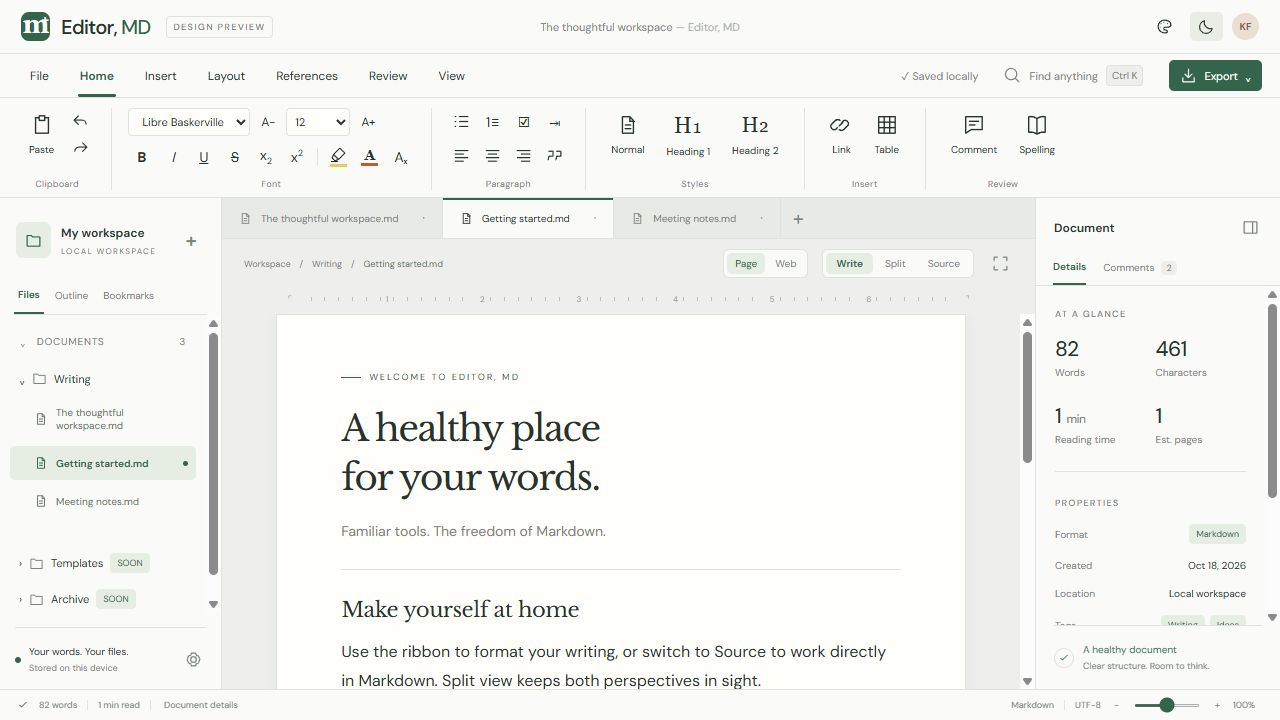
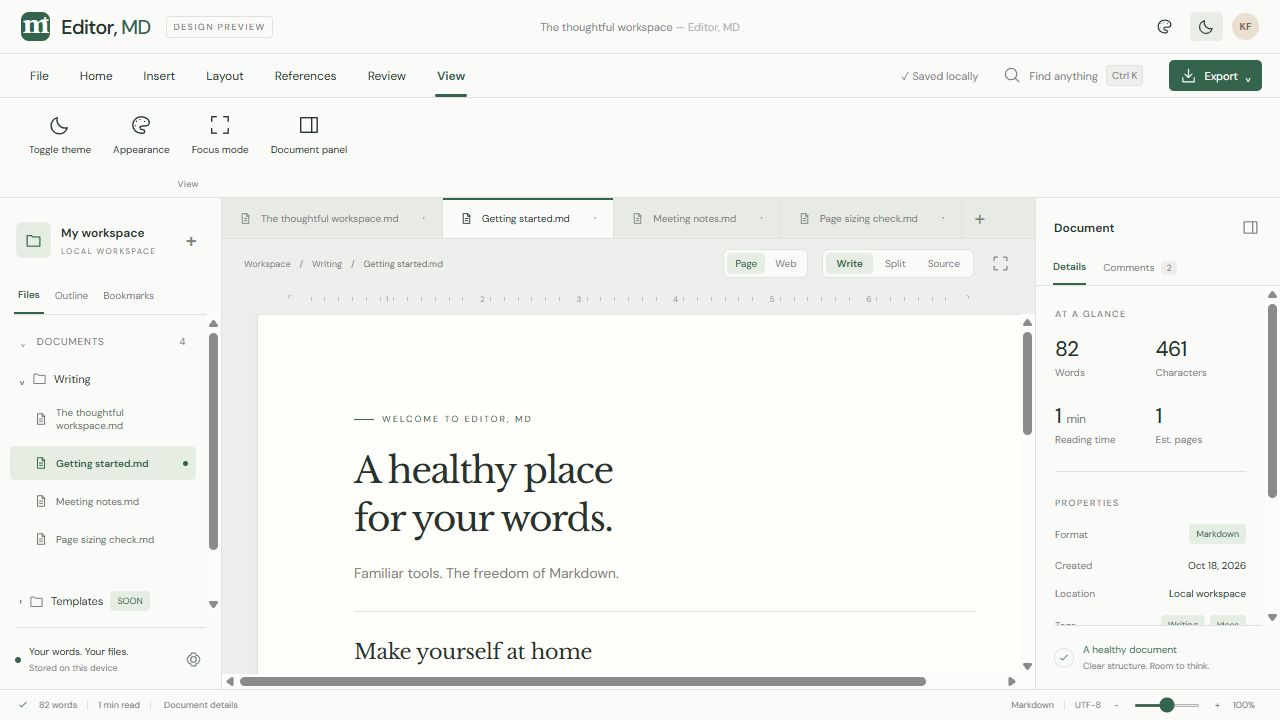
Keep page previews fixed and simplify View controls

diff --git a/app.js b/app.js
@@ -88,7 +88,7 @@ const tool=(label,action,content)=>`<button class="tool" aria-label="${label}" t
 const large=(name,label,action)=>`<button class="large-tool" data-action="${action}">${icon(name)}${label}</button>`;
 const group=(label,html,extra='')=>`<div class="ribbon-group ${extra}">${html}<div class="ribbon-label">${label}</div></div>`;
 function ribbon(tab){let html='';if(tab==='Home'){html=group('Clipboard',`<div class="ribbon-row">${large('paste','Paste','paste')}<div>${tool('Undo','undo',icon('undo'))}<br>${tool('Redo','redo',icon('redo'))}</div></div>`)+group('Font',`<div class="ribbon-row font-row"><select aria-label="Font family" id="font"><option>Libre Baskerville</option><option>Georgia</option><option>Segoe UI</option><option>Consolas</option></select>${tool('Decrease font size','font-smaller','A−')}<select class="font-size" aria-label="Text size in points" id="size">${[6,8,9,10,11,12,14,16,18,20,22,24,26,28,32,36,48,60,72,96].map(n=>`<option value="${n}" ${n===12?'selected':''}>${n}</option>`).join('')}</select>${tool('Increase font size','font-larger','A+')}</div><div class="ribbon-row">${tool('Bold','bold','<b>B</b>')}${tool('Italic','italic','<i>I</i>')}${tool('Underline','underline','<u>U</u>')}${tool('Strikethrough','strikeThrough','<s>S</s>')}${tool('Subscript','subscript','x<sub>2</sub>')}${tool('Superscript','superscript','x<sup>2</sup>')}<span class="separator"></span>${tool('Highlight','hiliteColor','<span class="highlight-icon">'+icon('highlighter')+'</span>')}${tool('Font color','font-color','<span class="font-color-icon">A</span>')}${tool('Clear formatting','removeFormat','Aₓ')}</div>`)+group('Paragraph',`<div class="ribbon-row">${tool('Bullet list','insertUnorderedList',icon('list'))}${tool('Numbered list','insertOrderedList','1≡')}${tool('Checklist','checklist','☑')}${tool('Indent','indent','⇥')}</div><div class="ribbon-row">${tool('Align left','justifyLeft',icon('align'))}${tool('Align center','justifyCenter',icon('center'))}${tool('Align right','justifyRight',icon('alignRight'))}${tool('Quote','quote',icon('quote'))}</div>`)+group('Styles',`<div class="ribbon-row">${large('file','Normal','normal')}<button class="large-tool" data-action="heading1"><span style="font-family:Georgia;font-size:22px">H₁</span>Heading 1</button><button class="large-tool" data-action="heading2"><span style="font-family:Georgia;font-size:21px">H₂</span>Heading 2</button></div>`)+group('Insert',`<div class="ribbon-row">${large('link','Link','link')}${large('table','Table','table')}</div>`,'optional')+group('Review',`<div class="ribbon-row">${large('comment','Comment','comment')}${large('book','Spelling','spelling')}</div>`,'optional')}
-else{const tabs={File:[['file','New document','new'],['download','Save now','save-now'],['download','Export','export'],['print','Print / PDF','print'],['clock','Local storage','storage']],Insert:[['table','Table','table'],['chart','Graph studio','graphs'],['link','Link','link'],['image','Image','image'],['code','Code block','code'],['quote','Blockquote','quote'],['comment','Comment','comment'],['file','Divider','divider']],Layout:[['layout','Page setup','page'],['align','Align left','justifyLeft'],['center','Center','justifyCenter'],['alignRight','Align right','justifyRight'],['expand','Focus mode','focus']],References:[['list','Document outline','outline'],['link','Insert link','link'],['bookmark','Bookmarks','bookmarks'],['quote','Footnote','footnote']],Review:[['comment','Comments','comment'],['book','Spelling','spelling'],['check','Word count','stats']],View:[['file','Page layout','layout-page'],['layout','Web layout','layout-web'],['file','Write','write'],['layout','Split view','split'],['code','Markdown','source'],['moon','Toggle theme','theme'],['palette','Appearance','appearance'],['expand','Focus mode','focus'],['panel','Document panel','panel']]};html=group(tab,`<div class="ribbon-row">${(tabs[tab]||tabs.Home).map(v=>large(...v)).join('')}</div>`)}$('#ribbon').innerHTML=html;$$('[data-action]').forEach(b=>b.onmousedown=e=>e.preventDefault());$$('[data-action]').forEach(b=>b.onclick=()=>action(b.dataset.action));if($('#font'))$('#font').onchange=e=>format('fontName',e.target.value);if($('#size')){ $('#size').onchange=e=>{if(e.target.value)setFontSize(+e.target.value)};if(typeof syncFontControls==='function')syncFontControls(); }if(tab==='File'&&typeof mountAutosaveControl==='function')mountAutosaveControl();if(typeof syncLayoutControls==='function')syncLayoutControls();}
+else{const tabs={File:[['file','New document','new'],['download','Save now','save-now'],['download','Export','export'],['print','Print / PDF','print'],['clock','Local storage','storage']],Insert:[['table','Table','table'],['chart','Graph studio','graphs'],['link','Link','link'],['image','Image','image'],['code','Code block','code'],['quote','Blockquote','quote'],['comment','Comment','comment'],['file','Divider','divider']],Layout:[['layout','Page setup','page'],['align','Align left','justifyLeft'],['center','Center','justifyCenter'],['alignRight','Align right','justifyRight'],['expand','Focus mode','focus']],References:[['list','Document outline','outline'],['link','Insert link','link'],['bookmark','Bookmarks','bookmarks'],['quote','Footnote','footnote']],Review:[['comment','Comments','comment'],['book','Spelling','spelling'],['check','Word count','stats']],View:[['moon','Toggle theme','theme'],['palette','Appearance','appearance'],['expand','Focus mode','focus'],['panel','Document panel','panel']]};html=group(tab,`<div class="ribbon-row">${(tabs[tab]||tabs.Home).map(v=>large(...v)).join('')}</div>`)}$('#ribbon').innerHTML=html;$$('[data-action]').forEach(b=>b.onmousedown=e=>e.preventDefault());$$('[data-action]').forEach(b=>b.onclick=()=>action(b.dataset.action));if($('#font'))$('#font').onchange=e=>format('fontName',e.target.value);if($('#size')){ $('#size').onchange=e=>{if(e.target.value)setFontSize(+e.target.value)};if(typeof syncFontControls==='function')syncFontControls(); }if(tab==='File'&&typeof mountAutosaveControl==='function')mountAutosaveControl();if(typeof syncLayoutControls==='function')syncLayoutControls();}
 let selection=null;document.addEventListener('selectionchange',()=>{const s=window.getSelection();if(s.rangeCount&&$('#paper').contains(s.anchorNode))selection=s.getRangeAt(0).cloneRange()});
 function format(command,value){if(mode==='source'){toast('Switch to Write or Split to format text');return}const target=selection?.cloneRange();$('#paper').focus();if(target&&$('#paper').contains(target.commonAncestorContainer)){let s=window.getSelection();s.removeAllRanges();s.addRange(target)}document.execCommand(command,false,value);save();$('#source').value=markdown($('#paper').innerHTML)}
 function insert(html){format('insertHTML',html)}

diff --git a/office.js b/office.js
@@ -138,17 +138,20 @@ function fontColorDialog(){
   $('#cancel-color').onclick=()=>$('#dialog').close();
 }
 
-const defaultPage={size:'Letter',orientation:'portrait',top:.67,bottom:.67,left:.79,right:.79};
+const defaultPage={size:'Letter',orientation:'portrait',top:1,bottom:1,left:1,right:1};
 const pageSizes={Letter:[8.5,11],A4:[8.2677,11.6929],Legal:[8.5,14]};
 function applyPage(){
   const page={...defaultPage,...files[active].page};
   let [width,height]=pageSizes[page.size]||pageSizes.Letter;
   if(page.orientation==='landscape')[width,height]=[height,width];
-  const scale=690/width;
+  // CSS uses 96 pixels per inch, so paper, type and margins share one scale.
+  const scale=96;
   const paper=$('#paper');
+  paper.style.setProperty('--page-width',width*scale+'px');
   paper.style.setProperty('--page-top',page.top*scale+'px');paper.style.setProperty('--page-bottom',page.bottom*scale+'px');
   paper.style.setProperty('--page-left',page.left*scale+'px');paper.style.setProperty('--page-right',page.right*scale+'px');
   paper.style.setProperty('--page-height',height*scale+'px');
+  $('.page-caption').textContent=page.size+' · '+Number(width.toFixed(2))+' × '+Number(height.toFixed(2))+' in';
   let printStyle=$('#print-page-style');
   if(!printStyle){printStyle=document.createElement('style');printStyle.id='print-page-style';document.head.append(printStyle)}
   printStyle.textContent=`@page {size:${width}in ${height}in;margin:${page.top}in ${page.right}in ${page.bottom}in ${page.left}in;}`;
@@ -161,6 +164,7 @@ function pageDialog(){
     <div class="field-grid">${['top','bottom','left','right'].map(k=>`<label>${k[0].toUpperCase()+k.slice(1)} (in)<input type="number" id="margin-${k}" min="0" max="3" step="0.05" value="${p[k]}"></label>`).join('')}</div>
     </div><div class="page-layout-preview"><div class="mini-page"><div></div></div><span id="page-dimensions"></span></div></div><p id="page-error" class="validation-error" role="alert"></p><div class="dialog-actions"><button id="cancel-page">Cancel</button><button class="primary" id="apply-page">Apply layout</button></div>`);
   $('#paper-size').value=p.size;$('#page-orientation').value=p.orientation;
+  if(['top','bottom','left','right'].every(k=>p[k]===p.top)&&[0.5,1,1.25].includes(p.top))$('#margin-preset').value=String(p.top);
   function values(){return {size:$('#paper-size').value,orientation:$('#page-orientation').value,...Object.fromEntries(['top','bottom','left','right'].map(k=>[k,Number($('#margin-'+k).value)]))}}
   function preview(){let v=values(),[w,h]=pageSizes[v.size];if(v.orientation==='landscape')[w,h]=[h,w];let m=$('.mini-page');m.style.aspectRatio=w+'/'+h;m.style.padding=`${v.top/h*100}% ${v.right/w*100}% ${v.bottom/h*100}% ${v.left/w*100}%`;$('#page-dimensions').textContent=w.toFixed(2)+' × '+h.toFixed(2)+' in';}
   $$('#dialog input,#dialog select:not(#margin-preset)').forEach(e=>e.oninput=()=>{$('#margin-preset').value='custom';preview()});
@@ -182,14 +186,11 @@ function syncLayoutControls(){
     const selected=button.dataset.documentLayout===documentLayout;
     button.classList.toggle('selected',selected);button.setAttribute('aria-pressed',String(selected));
   });
-  $$('[data-action="layout-page"],[data-action="layout-web"]').forEach(button=>{
-    const selected=button.dataset.action==='layout-'+documentLayout;
-    button.classList.toggle('selected',selected);button.setAttribute('aria-pressed',String(selected));
-  });
 }
 function setDocumentLayout(layout){
   documentLayout=layout==='web'?'web':'page';
   $('.document-area').classList.toggle('web-layout',documentLayout==='web');
+  applyPage();
   try{localStorage.setItem('editor-md-document-layout',documentLayout)}catch{}
   syncLayoutControls();
 }
@@ -198,8 +199,6 @@ $$('[data-document-layout]').forEach(button=>{
   button.onclick=()=>setDocumentLayout(button.dataset.documentLayout);
 });
 Object.assign(officeActions,{
-  'layout-page':()=>setDocumentLayout('page'),
-  'layout-web':()=>setDocumentLayout('web'),
   appearance:appearanceDialog,
   'font-smaller':()=>setFontSize(currentFontSize-1),
   'font-larger':()=>setFontSize(currentFontSize+1),

diff --git a/editing.css b/editing.css
@@ -2,9 +2,12 @@
 /* Screen layout never changes document margins or print geometry. */
 .canvas-top{flex-wrap:wrap;row-gap:7px}.breadcrumbs{min-width:0;overflow:hidden;white-space:nowrap}.breadcrumbs strong{overflow:hidden;text-overflow:ellipsis}
 .layout-switch{display:flex;flex-shrink:0;gap:2px;padding:3px;background:var(--surface);border:1px solid var(--line);border-radius:6px}
-.layout-switch button{font-size:10px;padding:4px 8px;color:var(--muted)}.layout-switch button.selected,.large-tool[data-action^="layout-"].selected{background:var(--pale);color:var(--green)}
+.layout-switch button{font-size:10px;padding:4px 8px;color:var(--muted)}.layout-switch button.selected{background:var(--pale);color:var(--green)}
 .mode-switch{flex-shrink:0}
 @media screen{
+  .document-area:not(.web-layout) .editing-surface:not(.source){width:max-content;min-width:100%;max-width:none;align-items:flex-start}
+  .document-area:not(.web-layout) .paper{flex:none;width:var(--page-width,816px);max-width:none;height:var(--page-height,1056px);min-height:0;padding:var(--page-top,96px) var(--page-right,96px) var(--page-bottom,96px) var(--page-left,96px);overflow:auto;overscroll-behavior:contain}
+  .document-area:not(.web-layout) .split #source{flex:none;width:420px}
   .web-layout .ruler,.web-layout .page-caption{display:none}
   .web-layout .canvas-scroll{background:var(--paper);padding:30px clamp(18px,4vw,60px) 40px}
   .web-layout .editing-surface{max-width:none;width:100%;min-height:100%;margin:0;align-items:stretch}

diff --git a/README.md b/README.md
@@ -15,7 +15,7 @@ Mermaid is installed locally so diagram rendering works offline after installati
 ## Try it
 
 - Edit the document directly, or switch between Write, Split, and Source views.
-- Switch Page / Web above the document or from View. Page shows the paper canvas and document margins; Web reflows across the available editing width. This preference works independently of Write/Split/Source, is remembered locally, and leaves print settings unchanged.
+- Switch Page / Web above the document. Page uses fixed paper dimensions; Web reflows across the available editing width. Both layout and Write/Split/Source controls live above the document, independently of the View ribbon. Layout is remembered locally and leaves print settings unchanged.
 - Explore the Home, Insert, Layout, References, Review, and View ribbons.
 - Apply headings, emphasis, lists, quotes, tables, links, and code blocks.
 - Navigate files, create a document, or search document names and content with Ctrl+K.
@@ -24,7 +24,7 @@ Mermaid is installed locally so diagram rendering works offline after installati
 - Customize main and accent colors independently for light and dark mode with the palette button. Light retains the original warm paper/green palette; dark defaults to navy blue/orange.
 - Keep the font-size dropdown alongside A− / A+. It follows the selected text, shows Mixed for differing sizes, and reflects inherited point sizes for subscript/superscript. Font family and character formatting states follow the selection too.
 - Apply subscript, superscript, font color, or highlighting with distinct character tools (the highlighter uses a marker icon).
-- Choose paper size/orientation and individual margins from Layout → Page setup.
+- Choose paper size/orientation and individual margins from Layout → Page setup. Defaults are Letter (8.5 × 11 inches), portrait, with 1-inch margins. Returning from Web preserves the document's chosen page setup.
 - Create or edit charts in Insert → Graph studio. The spreadsheet-style data grid supports multiple series, row/series insertion/removal, labels, axis titles, and selecting a series for pie charts. Switching chart types preserves the data.
 - Build flowcharts with clickable preview nodes, editable labels/shapes, labeled connections, direction controls, and a Decision + Yes / No branches action. The studio includes undo/redo and templates for sequence, Gantt, mind-map, state, class, and entity-relationship diagrams, with source editing for those additional types.
 - Use Graph studio → Import data to paste CSV, TSV or a Markdown table. Chart-from-selection and its custom context menu have been removed; the visual chart/flowchart editors and manual import remain available.
@@ -36,6 +36,8 @@ Mermaid is installed locally so diagram rendering works offline after installati
 This is a **design prototype**, not the Rust application. Its lightweight Markdown conversion supports common structures but does not implement the full CommonMark/GFM specification. Font color and point size export using inline HTML, which some Markdown readers strip (including GitHub styling). Mermaid exports as fenced code blocks; readers need Mermaid support. In-app graph zoom and node selection are editor features, not a promise of portable Markdown interactivity. Arbitrary diagram scripts and callbacks are disabled.
 
 Export offers Markdown, styled HTML with static graph artwork, and PDF through the browser's print interface. Print styling hides application controls and applies document margins independently of screen theme. PDF graphs are static. Some office formatting remains preview-only or HTML/PDF-only. Comments are session-only; templates and archives remain planned features.
+
+The on-screen Page view is a fixed paper preview with scrollable content for long documents. It uses 96 CSS pixels per inch before zoom and retains the selected paper dimensions in Split mode and narrow windows; horizontal scrolling is available when needed. True editable multipage pagination remains native-app work. Browser printing flows the full document rather than clipping it to the screen preview.
 
 See [the design reference](design/DESIGN.md) for layout, colors, behavior, and a proposed native-app feature map.
 See [the Writer-inspired feature roadmap](design/FEATURES.md) for the broader office-editor scope and the Markdown/rich document boundary.

diff --git a/design/DESIGN.md b/design/DESIGN.md
@@ -31,9 +31,9 @@ The default Home ribbon exposes clipboard, text formatting, paragraph structure,
 
 Write is a document-focused editing view. Source exposes Markdown. Split shows source beside rendered content. The final app should preserve Markdown as the source of truth, synchronize cursor positions and scrolling, and avoid lossy conversions between independent HTML and text models.
 
-Page and Web are independent screen layouts, available above the document and under View. Page uses the paper canvas, ruler and configured margins. Web uses a continuous surface that reflows across the editing area without paper bounds or a ruler. Switching layouts preserves the document and its selection; it does not change the document's page setup. Printing and PDF always use page settings. The prototype remembers this view preference locally. Its Page view illustrates paper proportions; true multipage pagination remains native-app work.
+Page and Web are independent screen layouts, available above the document beside Write/Split/Source. View contains theme, appearance, focus and panel controls; it does not duplicate these toggles. Page uses a fixed paper canvas, ruler and configured margins. The default is Letter, 8.5 × 11 inches, portrait, with 1-inch margins. At 100% zoom the prototype uses 96 CSS pixels per inch: 816 × 1056 pixels for Letter. Custom paper size/orientation and margins survive layout changes; narrow windows scroll horizontally rather than squeezing the paper into an elongated shape. Longer content scrolls inside the paper preview. Web uses a continuous surface that reflows across the editing area without paper bounds or a ruler. Switching layouts preserves the document and its selection; it does not change the document's page setup. Printing and PDF use page settings and flow the full document independently of screen overflow. The prototype remembers this view preference locally; true editable multipage pagination remains native-app work.
 
-Current references: [light Page layout](page-layout.png) and [dark Web layout](web-layout.png).
+Current references: [light Page layout](page-layout.png), [Letter setup defaults](page-setup-letter.png), and [dark Web layout](web-layout.png).
 
 Local files and user control are central. Show actual save state and actionable failures. Distinguish saving, exporting, and Git synchronization. Keep Git commands separate from ordinary document saving, and explain authentication or merge conflicts when they occur.
 
